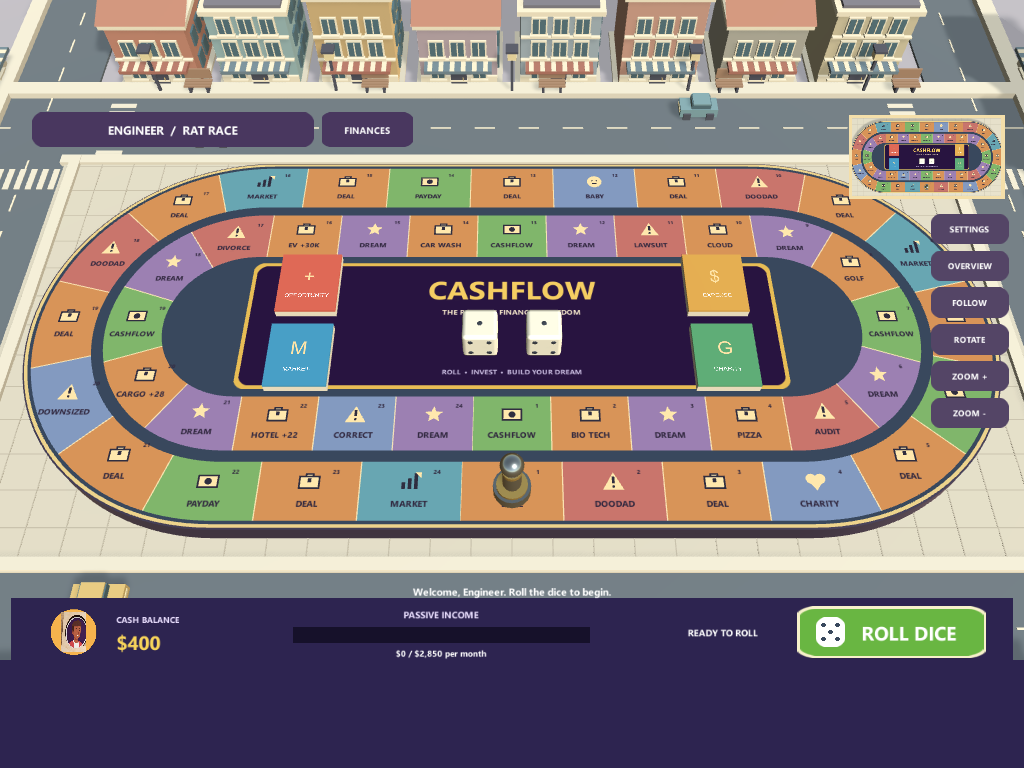
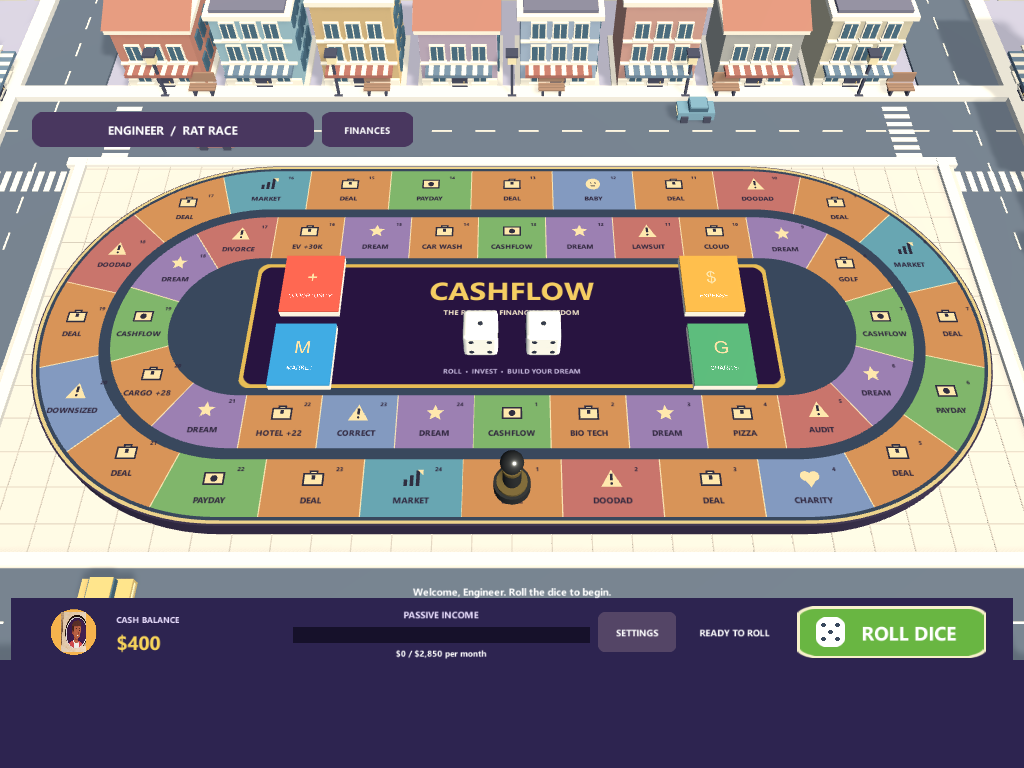
Enhance BoardReview and BoardWorld for improved camera settings and UI; update README and results files; add packaging and mobile settings scripts

diff --git a/Assets/Editor/BoardReview.cs b/Assets/Editor/BoardReview.cs
@@ -106,7 +106,15 @@ public static class BoardReview
                 if(step==sizes.GetLength(0)*2+3)
                 {
                     File.AppendAllText(Path.Combine(Folder,"results.txt"),"PASS: single physical die, animated pawn landing, follow camera; minimap removed.\n");
-                    typeof(CashflowGame).GetMethod("ShowBoardSettings",flags).Invoke(game,null);
+                    GameObject.Find("Board Settings Button").GetComponent<UnityEngine.UI.Button>().onClick.Invoke();
+                    var settings=GameObject.Find("Modal Blocker");
+                    foreach(string mode in new[]{"OVERVIEW","FOLLOW"})
+                    {
+                        var choice=settings.GetComponentsInChildren<UnityEngine.UI.Button>().First(b=>b.GetComponentInChildren<UnityEngine.UI.Text>().text.StartsWith(mode));
+                        choice.onClick.Invoke();
+                        if(world.Follow!=(mode=="FOLLOW"))throw new Exception("Settings camera selection failed");
+                    }
+                    File.AppendAllText(Path.Combine(Folder,"results.txt"),"PASS: bottom-bar settings opens; Overview and Follow selections work.\n");
                     typeof(CashflowGame).GetMethod("Roll",flags).Invoke(game,null);
                     if((bool)typeof(CashflowGame).GetField("rolling",flags).GetValue(game))throw new Exception("Modal did not block rolling");
                     typeof(CashflowGame).GetMethod("CloseModal",flags).Invoke(game,null);

diff --git a/work/check-mobile-settings.py b/work/check-mobile-settings.py
@@ -1,0 +1,11 @@
+from pathlib import Path
+p=Path('Assets/Scripts/BoardWorld.cs');s=p.read_text();s=s.replace('Mathf.Max(distance,Mathf.Abs(p.x)/tanH-p.z,Mathf.Abs(p.y)/tanV-p.z)','Mathf.Max(distance,Mathf.Max(Mathf.Abs(p.x)/tanH-p.z,Mathf.Abs(p.y)/tanV-p.z))');p.write_text(s)
+p=Path('Assets/Editor/BoardReview.cs');s=p.read_text();s=s.replace('                    typeof(CashflowGame).GetMethod("ShowBoardSettings",flags).Invoke(game,null);','''                    GameObject.Find("Board Settings Button").GetComponent<UnityEngine.UI.Button>().onClick.Invoke();
+                    var settings=GameObject.Find("Modal Blocker");
+                    foreach(string mode in new[]{"OVERVIEW","FOLLOW"})
+                    {
+                        var choice=settings.GetComponentsInChildren<UnityEngine.UI.Button>().First(b=>b.GetComponentInChildren<UnityEngine.UI.Text>().text.StartsWith(mode));
+                        choice.onClick.Invoke();
+                        if(world.Follow!=(mode=="FOLLOW"))throw new Exception("Settings camera selection failed");
+                    }
+                    File.AppendAllText(Path.Combine(Folder,"results.txt"),"PASS: bottom-bar settings opens; Overview and Follow selections work.\\n");''');p.write_text(s)

diff --git a/work/mobile-notes.py b/work/mobile-notes.py
@@ -1,0 +1,5 @@
+from pathlib import Path
+p=Path('outputs/3d/README.md')
+with p.open('a',encoding='utf-8') as f:
+ f.write('\n## Mobile controls and framing\nRemoved the right-side zoom/rotate controls and the minimap camera/render texture. Settings now lives in the bottom bar; its Camera View section switches between Overview and Follow. The scene renders across the full display width while the HUD retains safe-area padding. Perspective framing fits the curved board perimeter dynamically for different aspect ratios. Editor review includes 2532x1170 (iPhone 12) and 2340x1080 (Pixel 5), plus 1280x720, 1920x1080 and 1024x768. These are editor resolution checks, not physical-device tests.\n')
+p=Path('work/package3d.py');s=p.read_text();s=s.replace("'2340x1080.png',","'2340x1080.png','2532x1170.png',");p.write_text(s)

diff --git a/work/package3d.py b/work/package3d.py
@@ -7,6 +7,6 @@ with zipfile.ZipFile(out/'Cashflow-3D-project.zip','w',zipfile.ZIP_DEFLATED) as 
         for p in (root/folder).rglob('*'):
             if p.is_file(): z.write(p,p.relative_to(root))
     z.write(out/'README.md','README.md')
-for name in ['1280x720.png','1920x1080.png','2340x1080.png','1024x768.png','follow-camera.png','landed-event.png','results.txt']:
+for name in ['1280x720.png','1920x1080.png','2340x1080.png','2532x1170.png','1024x768.png','follow-camera.png','landed-event.png','results.txt']:
     shutil.copy2(root/'work/3d-review'/name,out/name)
 print('Complete Unity source project packaged without Library or temporary files.')

diff --git a/Assets/Scripts/BoardWorld.cs b/Assets/Scripts/BoardWorld.cs
@@ -168,7 +168,7 @@ public sealed class BoardWorld : MonoBehaviour
         {
             Vector2 edge=BoardTrackGenerator.Point(i/96f,267);
             Vector3 p=inverse*new Vector3(edge.x*.01f,.16f,edge.y*.01f);
-            distance=Mathf.Max(distance,Mathf.Abs(p.x)/tanH-p.z,Mathf.Abs(p.y)/tanV-p.z);
+            distance=Mathf.Max(distance,Mathf.Max(Mathf.Abs(p.x)/tanH-p.z,Mathf.Abs(p.y)/tanV-p.z));
         }
         return distance;
     }

diff --git a/outputs/3d/README.md b/outputs/3d/README.md
@@ -25,3 +25,6 @@ The ZIP contains the complete Assets, Packages and ProjectSettings folders plus 
 
 ## Environment update
 The board now has a track-shaped physical base and narrow gold rim, removing the old filled rectangular corners. Slate replaces the green surround. The flat green ground and sphere trees have been replaced by a batched city plaza with stone paving, sidewalks, crosswalks, lane markings, pastel storefronts, striped awnings, windows, roof details, cars, lamps and benches. BoardEnvironment builds the scenery; BoardPlateGraphic supplies the curved perimeter. The four-resolution and one-/two-dice regression checks passed after these changes.
+
+## Mobile controls and framing
+Removed the right-side zoom/rotate controls and the minimap camera/render texture. Settings now lives in the bottom bar; its Camera View section switches between Overview and Follow. The scene renders across the full display width while the HUD retains safe-area padding. Perspective framing fits the curved board perimeter dynamically for different aspect ratios. Editor review includes 2532x1170 (iPhone 12) and 2340x1080 (Pixel 5), plus 1280x720, 1920x1080 and 1024x768. These are editor resolution checks, not physical-device tests.
